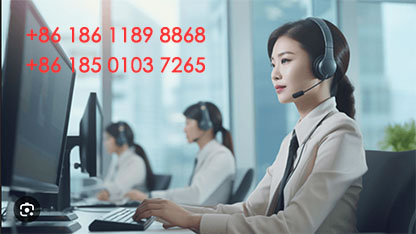
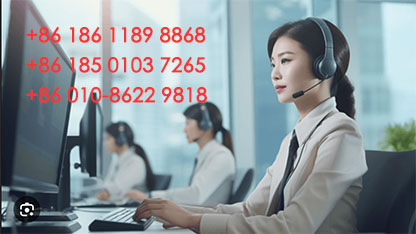
tel

Changed region(s): [[0.0625, 0.359, 0.5, 0.4487]]

diff --git a/_includes/en_footer.html b/_includes/en_footer.html
@@ -8,7 +8,7 @@
                     </li>
                     <li><span class="glyphicon glyphicon-phone"></span>&nbsp;&nbsp;&nbsp;{{site.tel}}</li>
                     <li><span class="glyphicon glyphicon-phone"></span>&nbsp;&nbsp;&nbsp;{{site.tel2}}</li>
-                    <!-- <li><span class="glyphicon glyphicon-phone-alt"></span>&nbsp;&nbsp;&nbsp;{{site.tel_zuoji}}</li> -->
+                    <li><span class="glyphicon glyphicon-phone-alt"></span>&nbsp;&nbsp;&nbsp;{{site.tel_zuoji}}</li>
                     <li><span class="glyphicon glyphicon-envelope"></span>&nbsp;&nbsp;&nbsp;{{site.email}}</li>
                     <li><span class="glyphicon glyphicon-envelope"></span>&nbsp;&nbsp;&nbsp;{{site.email2}}</li>
                 </ul>

diff --git a/_includes/footer.html b/_includes/footer.html
@@ -8,7 +8,7 @@
                     </li>
                     <li><span class="glyphicon glyphicon-phone"></span>&nbsp;&nbsp;&nbsp;{{site.tel}}</li>
                     <li><span class="glyphicon glyphicon-phone"></span>&nbsp;&nbsp;&nbsp;{{site.tel2}}</li>
-                    <!-- <li><span class="glyphicon glyphicon-phone-alt"></span>&nbsp;&nbsp;&nbsp;{{site.tel_zuoji}}</li> -->
+                    <li><span class="glyphicon glyphicon-phone-alt"></span>&nbsp;&nbsp;&nbsp;{{site.tel_zuoji}}</li>
                     <li><span class="glyphicon glyphicon-envelope"></span>&nbsp;&nbsp;&nbsp;{{site.email}}</li>
                     <li><span class="glyphicon glyphicon-envelope"></span>&nbsp;&nbsp;&nbsp;{{site.email2}}</li>
                 </ul>

diff --git a/_includes/link.html b/_includes/link.html
@@ -1,8 +1,8 @@
 <div class="link">
     <div style="background-color:#e33d29">
         <span class="glyphicon glyphicon-phone-alt"></span>
-        <div style="position: absolute; background-color: #343434; top:0px;right: 55px;width:250px;height: 110px;display: none;">
-            {{site.tel}}<br>{{site.tel2}}</div>
+        <div style="position: absolute; background-color: #343434; top:0px;right: 55px;width:250px;height: 150px;display: none;">
+            {{site.tel}}<br>{{site.tel2}}<br>{{site.tel_zuoji}}</div>
     </div>
     <div style="background-color:#343434;">
         <span class="glyphicon glyphicon-envelope"></span>

diff --git a/en/about/lianxi.md b/en/about/lianxi.md
@@ -4,5 +4,5 @@ id: 11
 title: Contact Us
 category: about us
 pic: 
-detail: <p><br>Contact us<br>Beijing Jiamo Technology Co., Ltd<br>Contact number：+86 186 1189 8868<br>Contact number：+86 185 0103 7265<br>Email：l.zhang@giamor-tech.com<br>Email：mabelzhang21@gmail.com<br>Address： Building 2, Daxidi Zone 2, Fengtai District, Beijing</p><p style="padding:300px 0 0 0"></p>
+detail: <p><br>Contact us<br>Beijing Jiamo Technology Co., Ltd<br>Contact number：+86 186 1189 8868<br>Contact number：+86 185 0103 7265<br>Contact number：+86 010-8622 9818<br>Email：l.zhang@giamor-tech.com<br>Email：mabelzhang21@gmail.com<br>Address： Building 2, Daxidi Zone 2, Fengtai District, Beijing</p><p style="padding:300px 0 0 0"></p>
 ---

diff --git a/_about/lianxi.md b/_about/lianxi.md
@@ -4,5 +4,5 @@ id: 11
 title: 联系我们
 category: 关于我们
 pic: 
-detail:  <p>北京佳膜环保科技有限公司<br><br>联系电话：+ 86 186 1189 8868<br><br>联系电话：+86 185 0103 7265<br><br>邮件：l.zhang@giamor-tech.com<br><br>邮件：mabelzhang21@gmail.com<br><br>北京市丰台区大溪地二区二号楼105</P><p style="padding:300px 0 0 0"></p>
+detail:  <p>北京佳膜环保科技有限公司<br><br>联系电话：+ 86 186 1189 8868<br><br>联系电话：+86 185 0103 7265<br><br>联系电话：+86 010-8622 9818<br><br>邮件：l.zhang@giamor-tech.com<br><br>邮件：mabelzhang21@gmail.com<br><br>北京市丰台区大溪地二区二号楼105</P><p style="padding:300px 0 0 0"></p>
 ---
